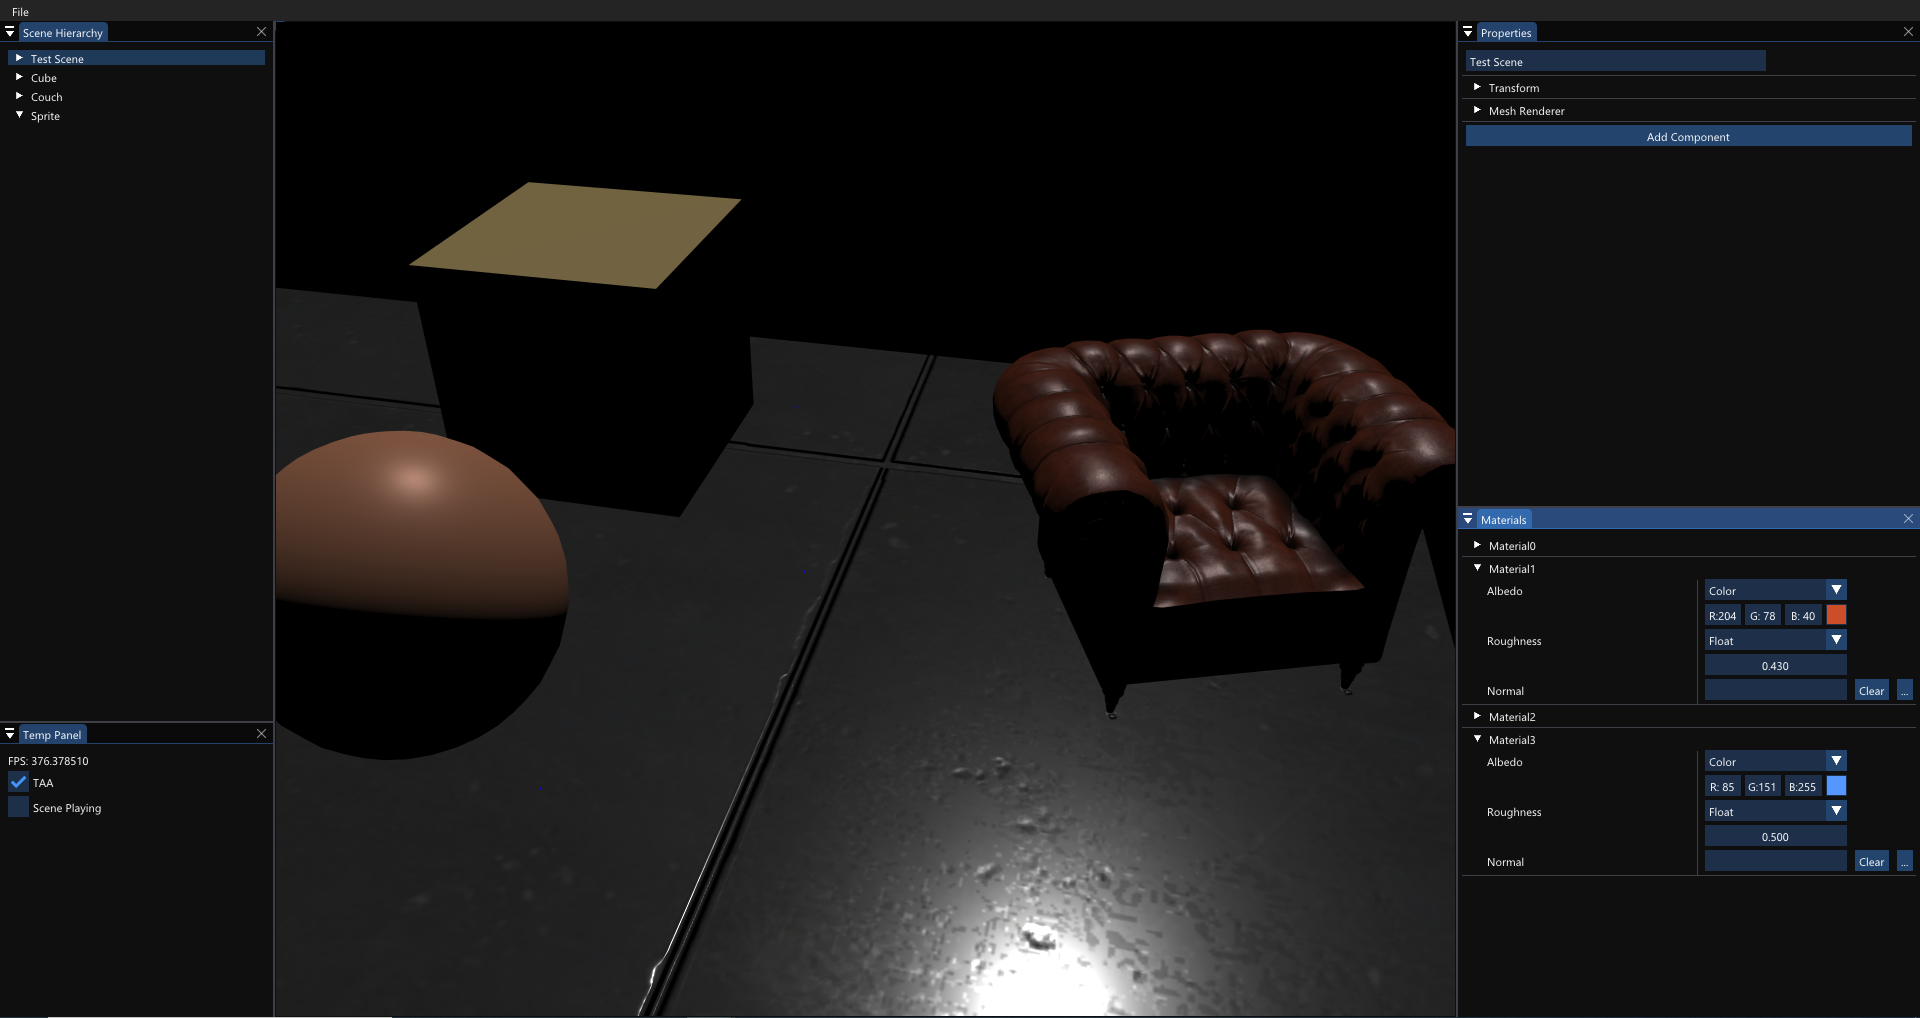
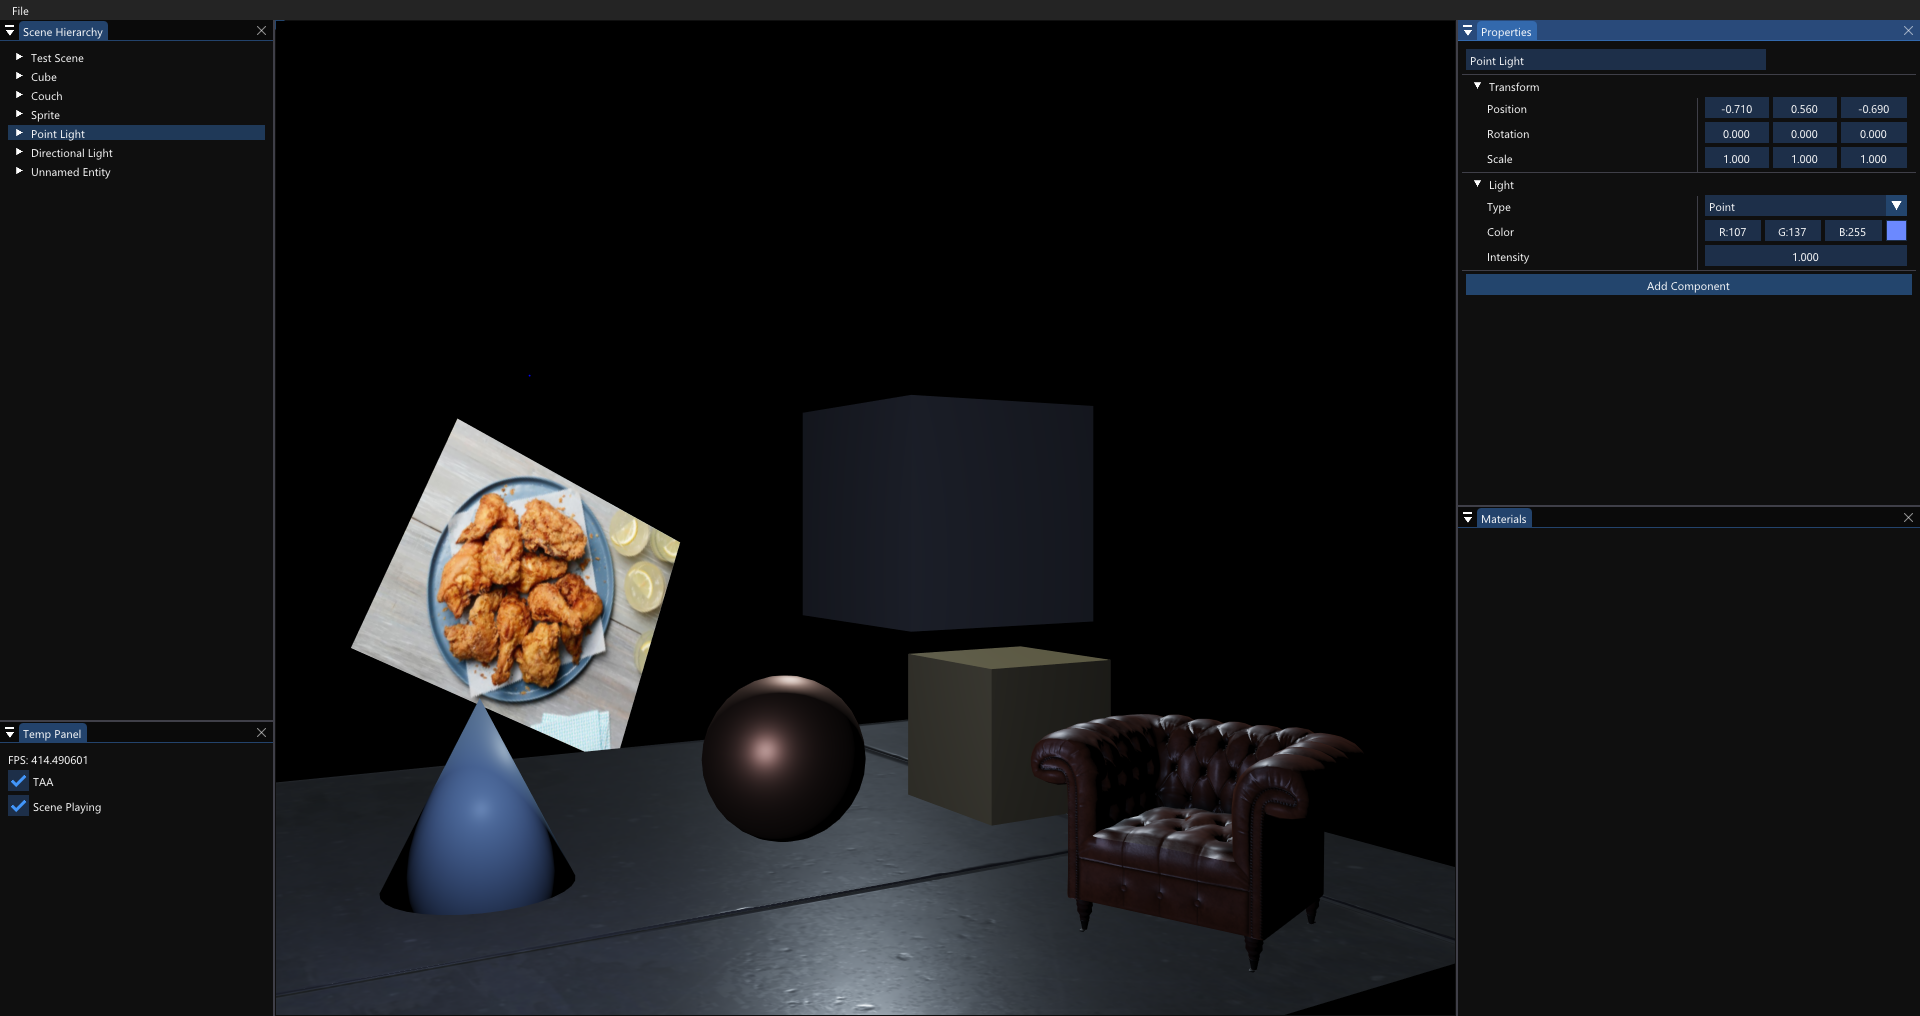
Light Component

diff --git a/Mango/src/Mango/Renderer/Renderer.cpp b/Mango/src/Mango/Renderer/Renderer.cpp
@@ -8,6 +8,9 @@
 
 #include "Halton.h"
 
+#define MAX_DIRECTIONAL_LIGHTS 4
+#define MAX_POINT_LIGHTS 16
+
 namespace Mango {
 
 	struct GlobalData {
@@ -21,9 +24,20 @@ namespace Mango {
 		float4 color;
 	};
 
+	struct Light {
+		float3 Vector;
+		float padding0;
+		float3 Color;
+		float padding1;
+	};
+
 	struct LightingData {
 		xmmatrix InvView;
 		float4 PerspectiveValues;
+		Light PointLights[MAX_POINT_LIGHTS];
+		Light DirectionalLights[MAX_DIRECTIONAL_LIGHTS];
+		int NumDirectionalLights;
+		int NumPointLights;
 	};
 
 	struct SurfaceData {
@@ -38,6 +52,7 @@ namespace Mango {
 		xmmatrix PreviousViewProjection = XMMatrixIdentity();
 		Scope<UniformBuffer> GlobalUniforms;
 		Scope<UniformBuffer> IndividualUniforms;
+		Mango::LightingData LightingData;
 		Scope<UniformBuffer> LightingUniforms;
 		Scope<UniformBuffer> SurfaceUniforms;
 
@@ -188,7 +203,11 @@ namespace Mango {
 		perspectiveValues.y = 1.0f / proj.m[1][1];
 		perspectiveValues.z = proj.m[3][2];
 		perspectiveValues.w = -proj.m[2][2];
-		sData->LightingUniforms->SetData<LightingData>({XMMatrixInverse(nullptr, view), perspectiveValues});
+
+		sData->LightingData.InvView = XMMatrixInverse(nullptr, view);
+		sData->LightingData.PerspectiveValues = perspectiveValues;
+		sData->LightingData.NumDirectionalLights = 0;
+		sData->LightingData.NumPointLights = 0;
 
 		sData->PreviousViewProjection = view * projection;
 	}
@@ -282,6 +301,7 @@ namespace Mango {
 		sData->GBuffer.Normal->BindAsTexture(1);
 		sData->DepthBuffer->BindAsTexture(2);
 		sData->LightingShader->Bind();
+		sData->LightingUniforms->SetData(sData->LightingData);
 		sData->LightingUniforms->PSBind(0);
 		DrawScreenQuad();
 
@@ -314,7 +334,19 @@ namespace Mango {
 		// -------------------------------------------------------------------------------------------
 	}
 
-	void Renderer::DrawQuad(const xmmatrix& previousFrameTransform, const xmmatrix& transform, const Ref<Texture2D>& texture, const float4& color)
+	void Renderer::SubmitDirectionalLight(const float3& direction, const float3& color)
+	{
+		if (sData->LightingData.NumDirectionalLights < MAX_DIRECTIONAL_LIGHTS)
+			sData->LightingData.DirectionalLights[sData->LightingData.NumDirectionalLights++] = { direction, 0.0f, color };
+	}
+
+	void Renderer::SubmitPointLight(const float3& position, const float3& color)
+	{
+		if(sData->LightingData.NumPointLights < MAX_POINT_LIGHTS)
+			sData->LightingData.PointLights[sData->LightingData.NumPointLights++] = { position, 0.0f, color };
+	}
+
+	void Renderer::SubmitQuad(const xmmatrix& previousFrameTransform, const xmmatrix& transform, const Ref<Texture2D>& texture, const float4& color)
 	{
 		sData->RenderQueue2D.push({ previousFrameTransform, transform, texture, color });
 	}

diff --git a/MangoEditor/src/Panels/SceneHierarchyPanel.cpp b/MangoEditor/src/Panels/SceneHierarchyPanel.cpp
@@ -425,6 +425,38 @@ namespace Mango {
 				ImGui::PopItemWidth();
 			});
 
+			// Light
+			DrawComponent<LightComponent>("Light", mSelectedEntity, reg, [&]() {
+				auto& light = reg.Get<LightComponent>(mSelectedEntity);
+				ImGui::Columns(2);
+
+				ImGui::AlignTextToFramePadding();
+				ImGui::Text("Type");
+				ImGui::AlignTextToFramePadding();
+				ImGui::Text("Color");
+				ImGui::AlignTextToFramePadding();
+				ImGui::Text("Intensity");
+
+				ImGui::NextColumn();
+				ImGui::PushItemWidth(-1.0f);
+
+				bool typePoint = light.Type == LightType::Point;
+
+				if (ImGui::BeginCombo("##light_type", typePoint ? "Point" : "Directional")) {
+					if (ImGui::Selectable("Point", typePoint) && !typePoint)
+						light = LightComponent(float3(1.0f, 1.0f, 1.0f), 1.0f, LightType::Point);
+					if (ImGui::Selectable("Directional", !typePoint) && typePoint)
+						light = LightComponent(float3(1.0f, 1.0f, 1.0f), 1.0f, LightType::Directional);
+					ImGui::EndCombo();
+				}
+
+				ImGui::ColorEdit3("##light_color", ValuePtr(light.Color));
+				ImGui::DragFloat("##light_intensity", &light.Intensity, 1.0f, 0.0f, INFINITY);
+
+				ImGui::PopItemWidth();
+				ImGui::Columns(1);
+			});
+
 			// Add Component Button
 			{
 				if (ImGui::Button("Add Component", ImVec2(ImGui::GetContentRegionAvailWidth(), 0.0f)))
@@ -442,6 +474,10 @@ namespace Mango {
 					if (!reg.Has<MeshComponent>(mSelectedEntity)) {
 						if (ImGui::MenuItem("Mesh"))
 							reg.Emplace<MeshComponent>(mSelectedEntity);
+					}
+					if (!reg.Has<LightComponent>(mSelectedEntity)) {
+						if (ImGui::MenuItem("Light"))
+							reg.Emplace<LightComponent>(mSelectedEntity, float3(1.0f, 1.0f, 1.0f), 1.0f, LightType::Point);
 					}
 					ImGui::EndPopup();
 				}

diff --git a/Mango/src/Mango/Scene/Scene.cpp b/Mango/src/Mango/Scene/Scene.cpp
@@ -43,6 +43,29 @@ namespace Mango {
 	{
 		Renderer::BeginScene(projection, cameraTransform, rendertarget->GetWidth(), rendertarget->GetHeight());
 
+		auto queryL = mRegistry.Query<LightComponent, TransformComponent>();
+		for (auto& [size, lights, transforms] : queryL) {
+			for (size_t i = 0; i < size; i++) {
+				auto& light = lights[i];
+				auto& transform = transforms[i];
+
+				xmvector colxm = XMLoadFloat3(&light.Color);
+				colxm *= light.Intensity;
+				float3 color;
+				XMStoreFloat3(&color, colxm);
+
+				if (light.Type == LightType::Point)
+					Renderer::SubmitPointLight(transform.Translation, color);
+				else {
+					xmvector xmdir = {0.0f, 1.0f, 0.0f, 0.0f};
+					xmdir = XMVector4Transform(xmdir, transform.GetMatrix());
+					float3 dir;
+					XMStoreFloat3(&dir, xmdir);
+					Renderer::SubmitDirectionalLight(dir, color);
+				}
+			}
+		}
+
 		auto query = mRegistry.Query<SpriteRendererComponent, TransformComponent, PreviousFrameTransformComponent>();
 		for (auto& [size, sprites, transforms, previousTransforms] : query) {
 			for (size_t i = 0; i < size; i++) {
@@ -50,7 +73,7 @@ namespace Mango {
 				auto transform = transforms[i].GetMatrix();
 				auto& prevTransform = previousTransforms[i].Transform;
 
-				Renderer::DrawQuad(prevTransform, transform, spriteComp.UsesTexture && spriteComp.Texture? spriteComp.Texture : Renderer::GetWhiteTexture(), spriteComp.Color);
+				Renderer::SubmitQuad(prevTransform, transform, spriteComp.UsesTexture && spriteComp.Texture? spriteComp.Texture : Renderer::GetWhiteTexture(), spriteComp.Color);
 
 				prevTransform = transform;
 			}

diff --git a/Mango/src/Mango/Scene/Serializer.cpp b/Mango/src/Mango/Scene/Serializer.cpp
@@ -142,6 +142,16 @@ namespace Mango {
 						}
 					}
 				}
+
+				// Light
+				{
+					if (reg.Has<LightComponent>(entity)) {
+						auto& comp = reg.Get<LightComponent>(entity);
+						j["entities"][std::to_string(entity)]["components"]["light"]["type"] = comp.Type == LightType::Point ? "point" : "directional";
+						j["entities"][std::to_string(entity)]["components"]["light"]["color"] = { comp.Color.x, comp.Color.y, comp.Color.z };
+						j["entities"][std::to_string(entity)]["components"]["light"]["intensity"] = comp.Intensity;
+					}
+				}
 			}
 		}
 		
@@ -254,6 +264,17 @@ namespace Mango {
 							mats.push_back(LoadMaterial(j, scene->GetTextureLibrary()));
 						reg.Emplace<MeshComponent>(entity, path.empty() ? Mesh() : Mesh::CreateModel(mats, scene->GetTextureLibrary(), path), MeshType::Model).Path = path;
 					}
+				}
+			}
+
+			// Light
+			{
+				if (components.find("light") != components.end()) {
+					auto& light = components["light"];
+					std::vector<float> col = light["color"];
+					float intensity = light["intensity"];
+					std::string type = light["type"];
+					reg.Emplace<LightComponent>(entity, *(float3*)col.data(), intensity, type == "point" ? LightType::Point : LightType::Directional);
 				}
 			}
 		}

diff --git a/Mango/src/Mango/Renderer/Renderer.h b/Mango/src/Mango/Renderer/Renderer.h
@@ -28,13 +28,15 @@ namespace Mango {
 		const Ref<Texture2D>& GetBlackTexture();
 		Ref<Material> CreateDefaultMaterial();
 
+		void DrawScreenQuad();
+
 		void BeginScene(const xmmatrix& projection, const xmmatrix& transform, uint32_t width, uint32_t height);
 		void EndScene(const Ref<ColorBuffer>& target);
 
-		void DrawQuad(const xmmatrix& previousFrameTransform, const xmmatrix& transform, const Ref<Texture2D>& texture, const float4& color);
+		void SubmitDirectionalLight(const float3& direction, const float3& color);
+		void SubmitPointLight(const float3& position, const float3& color);
 
-		void DrawScreenQuad();
-
+		void SubmitQuad(const xmmatrix& previousFrameTransform, const xmmatrix& transform, const Ref<Texture2D>& texture, const float4& color);
 		void SubmitMesh(const Mesh& mesh, const xmmatrix& previousFrameTransform, const xmmatrix& transform);
 	}
 

diff --git a/Sandbox/src/SandboxLayer.cpp b/Sandbox/src/SandboxLayer.cpp
@@ -32,8 +32,8 @@ inline void SandboxLayer::OnUpdate(float dt) {
 	accum += dt;
 	float s = sinf(accum) * 0.5f + 0.5f;
 
-	Renderer::DrawQuad(float3(0.0f, 0.0f, 0.0f), float2(1.0f, 1.0f), mTexture);
-	Renderer::DrawQuad(float3(0.0f, 0.0f, -0.5f), float2(1.0f, 1.0f), float4(1.0f, 0.2f, 0.3f, 1.0f));
+	Renderer::SubmitQuad(float3(0.0f, 0.0f, 0.0f), float2(1.0f, 1.0f), mTexture);
+	Renderer::SubmitQuad(float3(0.0f, 0.0f, -0.5f), float2(1.0f, 1.0f), float4(1.0f, 0.2f, 0.3f, 1.0f));
 
 	Renderer::EndScene();
 

diff --git a/Mango/src/Mango/Scene/Components.h b/Mango/src/Mango/Scene/Components.h
@@ -79,4 +79,20 @@ namespace Mango {
 		{}
 	};
 
+	enum class LightType {
+		Point, Directional
+	};
+
+	struct LightComponent {
+		float3 Color;
+		float Intensity;
+		LightType Type;
+
+		LightComponent() = default;
+		LightComponent(const LightComponent&) = default;
+		LightComponent(const float3& color, float intensity, LightType type)
+			: Color(color), Intensity(intensity), Type(type)
+		{}
+	};
+
 }
